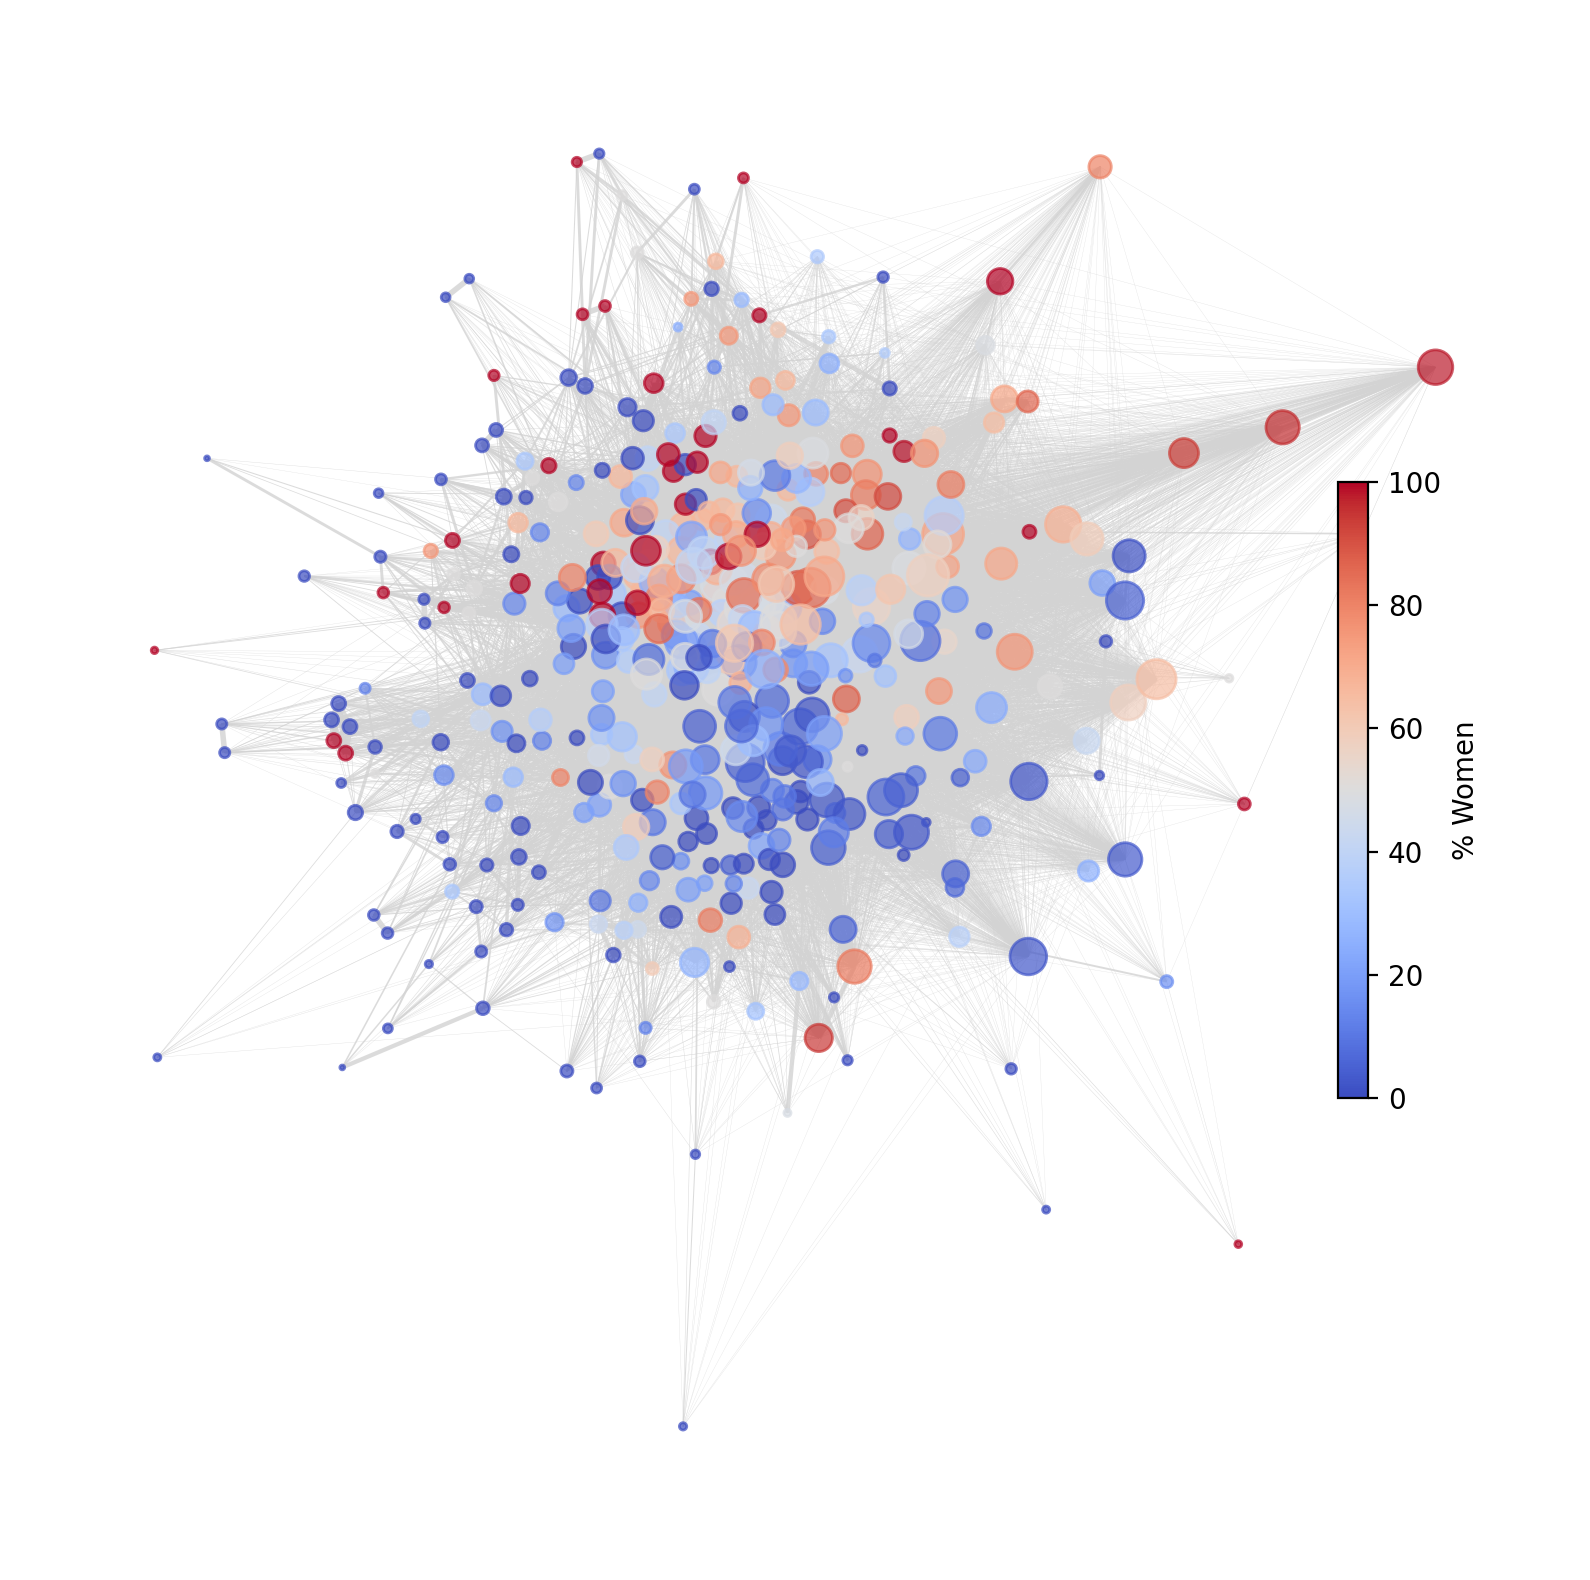
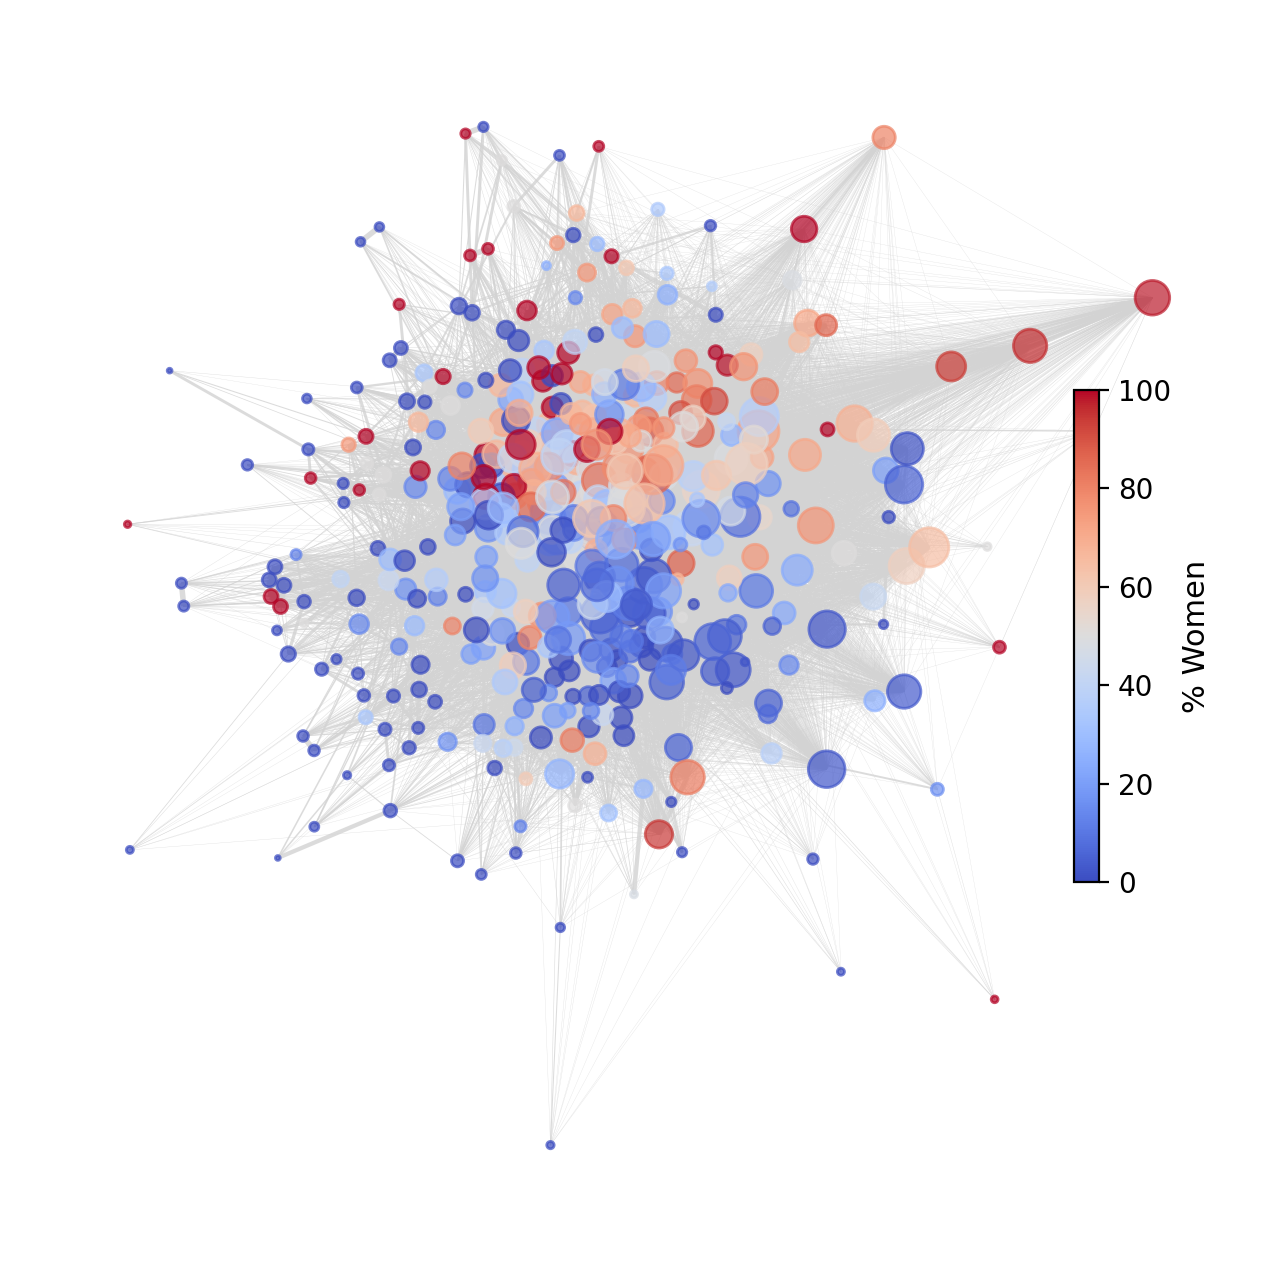
Add new plotting configurations and update image outputs for CAES and CIUO visualizations

diff --git a/src/plotting.py b/src/plotting.py
@@ -230,10 +230,11 @@ def draw_bipartite_by_color(
 		output_path: Path = None, 
 		seed: int = 28, 
 		top_n: int = 6, 
-		shift_x: float = 0.7, 
+		shift_x: float = 0.5, 
 		title: str = "",
 		save: bool = True,
-		figsize: tuple = (12, 8)) -> Dict[str, tuple]:
+		figsize: tuple = (12, 8),
+		font_size: int = 9) -> Dict[str, tuple]:
 	"""Draw the bipartite network with custom layout and return the positions."""
 	np.random.seed(seed)
 
@@ -301,7 +302,7 @@ def draw_bipartite_by_color(
 			graph,
 			pos,
 			labels=label_map,
-			font_size=8,
+			font_size=max(font_size - 1, 6),
 			font_color="black",
 			font_weight="bold",
 			horizontalalignment="left",
@@ -331,10 +332,10 @@ def draw_bipartite_by_color(
 	if caes_groups:
 		leg_l = plt.legend(
 			handles=_make_handles(caes_groups),
-			title="Economic Branches\n(CAES)",
+			title="Economic Branches (CAES)",
 			loc="upper left",
 			bbox_to_anchor=(0.0, 1.0),
-			fontsize=8.5, title_fontsize=8.5,
+			fontsize=max(font_size - 1, 6), title_fontsize=font_size,
 			framealpha=0.85, edgecolor="lightgray",
 			handlelength=1.2, handleheight=1.0,
 			labelspacing=1.2,
@@ -343,17 +344,17 @@ def draw_bipartite_by_color(
 	if ciuo_groups:
 		plt.legend(
 			handles=_make_handles(ciuo_groups),
-			title="Occupations\n(CIUO)",
+			title="Occupations (CIUO)",
 			loc="upper right",
 			bbox_to_anchor=(1.0, 1.0),
-			fontsize=8.5, title_fontsize=8.5,
+			fontsize=max(font_size - 1, 6), title_fontsize=font_size,
 			framealpha=0.85, edgecolor="lightgray",
 			handlelength=1.2, handleheight=1.0,
 			labelspacing=1.2,
 		)
 
 	# Finalize plot
-	plt.title(title)
+	plt.title(title, fontsize=font_size + 1)
 	plt.axis("off")
 	plt.xlim(-1.4, 1.6)
 	if save:
@@ -556,6 +557,8 @@ def plot_projection_by_group(
 	title: str, 
 	legend_title: str, 
 	output_path: Path = None,
+	figsize: tuple = (10, 10),
+	font_size: int = 11,
 	seed: int = 42,
 	save: bool = True,
 	legend_label_fmt=None,
@@ -628,7 +631,7 @@ def plot_projection_by_group(
 		edge_widths = 0.3
 
 	# Plotting
-	plt.figure(figsize=(10, 10))
+	plt.figure(figsize=figsize)
 	nx.draw_networkx_nodes(graph, pos, node_color=node_colors, node_size=node_sizes, alpha=node_alpha)
 	nx.draw_networkx_edges(graph, pos, edge_color="lightgray", width=edge_widths, alpha=edge_alpha)
 
@@ -637,8 +640,8 @@ def plot_projection_by_group(
 	for group, color in group_color_map.items():
 		plt.scatter([], [], color=color, label=label_fn(group))
 
-	plt.legend(title=legend_title, fontsize=9, loc='best', borderaxespad=8.0)
-	plt.title(title)
+	plt.legend(title=legend_title, fontsize=max(font_size - 2, 6), title_fontsize=font_size, loc='best', borderaxespad=8.0)
+	plt.title(title, fontsize=font_size + 1)
 	plt.axis("off")
 	if save:
 		plt.savefig(output_path, bbox_inches="tight")
@@ -655,6 +658,8 @@ def plot_projection_gradient(
 	title: str,
 	colorbar_label: str = "Value",
 	cmap: str = "viridis",
+	figsize: tuple = (10, 10),
+	font_size: int = 11,
 	output_path: Path = None,
 	save: bool = True,
 	factor_node_size: float = 0.5,
@@ -719,16 +724,17 @@ def plot_projection_gradient(
 	else:
 		edge_widths = 0.3
 
-	fig, ax = plt.subplots(figsize=(10, 10))
+	fig, ax = plt.subplots(figsize=figsize)
 	nx.draw_networkx_nodes(subgraph, subpos, ax=ax, node_color=node_colors, node_size=node_sizes, alpha=node_alpha)
 	nx.draw_networkx_edges(subgraph, subpos, ax=ax, edge_color="lightgray", width=edge_widths, alpha=edge_alpha)
 
 	sm = plt.cm.ScalarMappable(cmap=colormap, norm=norm)
 	sm.set_array([])
 	cbar = fig.colorbar(sm, ax=ax, shrink=0.4, pad=-0.15)
-	cbar.set_label(colorbar_label)
+	cbar.set_label(colorbar_label, fontsize=font_size)
+	cbar.ax.tick_params(labelsize=max(font_size - 1, 6))
 
-	ax.set_title(title)
+	ax.set_title(title, fontsize=font_size + 1)
 	ax.axis("off")
 	if save:
 		plt.savefig(output_path, bbox_inches="tight")
@@ -744,6 +750,8 @@ def plot_stacked_by_group(
 	title: str, 
 	output_path: Path, 
 	group_color_map: Dict[str, tuple] = None, 
+	figsize: tuple = (16, 4),
+	font_size: int = 11,
 	save: bool = True,
 	percentage: bool = True) -> None:
 	"""Plot stacked bar chart showing distribution of groups within communities."""
@@ -761,14 +769,25 @@ def plot_stacked_by_group(
 	# Build color list matching the column order
 	if group_color_map:
 		colors = [group_color_map.get(col, 'gray') for col in ct.columns]
-		ax = ct.plot(kind='barh', stacked=True, figsize=(16, 4), width=0.8, color=colors)
+		ax = ct.plot(kind='barh', stacked=True, figsize=figsize, width=0.8, color=colors)
 	else:
-		ax = ct.plot(kind='barh', stacked=True, figsize=(16, 4), width=0.8)
+		ax = ct.plot(kind='barh', stacked=True, figsize=figsize, width=0.8)
 
-	ax.set_xlabel('Percentage (%)' if percentage else 'Count')
-	ax.set_title(title)
+	ax.set_xlabel('Percentage (%)' if percentage else 'Count', fontsize=font_size)
+	ax.set_title(title, fontsize=font_size + 1)
+	ax.tick_params(axis='both', labelsize=font_size - 1)
 	ax.set_xlim(0, 100 if percentage else None)
-	ax.legend(title=group_col, bbox_to_anchor=(1.05, 1), loc='upper left')
+	ax.legend(title=group_col, bbox_to_anchor=(1.05, 1), loc='upper left', fontsize=font_size - 2, title_fontsize=font_size)
+	
+	# Format y-axis labels as C0, C1, ...
+	yticks = ax.get_yticks()
+	ax.set_yticklabels([f"C{int(y)}" for y in yticks])
+
+	# Remove axis borders
+	ax.spines['top'].set_visible(False)
+	ax.spines['right'].set_visible(False)
+	ax.spines['left'].set_visible(False)
+	ax.spines['bottom'].set_visible(False)
 
 	plt.tight_layout()
 	if save:
@@ -973,6 +992,8 @@ def plot_top_n_bar(
 		title: str,
 		xlabel: str,
 		top_n: int = 15,
+		figsize: tuple = (12, 8),
+		font_size: int = 11,
 		output_path: Path = None,
 		save: bool = True,
 	) -> None:
@@ -988,7 +1009,7 @@ def plot_top_n_bar(
 		else:
 			palette_by_label[label] = "gray"
 
-	plt.figure(figsize=(12, 8))
+	plt.figure(figsize=figsize)
 	ax = sns.barplot(
 		data=top_df,
 		x=val_col,
@@ -998,9 +1019,10 @@ def plot_top_n_bar(
 		palette=palette_by_label,
 		legend=False,
 	)
-	plt.title(title)
-	plt.xlabel(xlabel)
-	plt.ylabel("")
+	plt.title(title, fontsize=font_size + 1)
+	plt.xlabel(xlabel, fontsize=font_size)
+	plt.ylabel("", fontsize=font_size)
+	ax.tick_params(axis="both", labelsize=font_size - 1)
 	
 	ax.xaxis.set_major_formatter(plt.FuncFormatter(lambda x, loc: "{:,}".format(int(x))))
 
@@ -1092,7 +1114,17 @@ def plot_alpha_sensitivity(
 
 
 from scipy import stats
-def compute_and_plot_edge_correlation(G: nx.Graph, feature_map: dict, color_map: dict, title: str, output_path: Path, save: bool = True, perfect_line: bool = True) -> None:
+def compute_and_plot_edge_correlation(
+	G: nx.Graph,
+	feature_map: dict,
+	color_map: dict,
+	title: str,
+	output_path: Path,
+	save: bool = True,
+	perfect_line: bool = True,
+	figsize: tuple = (9, 8),
+	font_size: int = 11,
+) -> None:
 	# Only keep nodes that have the feature
 	valid_nodes = set(feature_map.keys())
 	
@@ -1129,7 +1161,7 @@ def compute_and_plot_edge_correlation(G: nx.Graph, feature_map: dict, color_map:
 		return
 
 	# Plot
-	plt.figure(figsize=(9, 8))
+	plt.figure(figsize=figsize)
 	
 	# Scatter plot of node feature vs average neighbor feature, colored by community
 	sns.scatterplot(x=x_vals, y=y_vals, alpha=0.8, c=[color_map.get(u, "gray") for u in plotted_nodes])
@@ -1156,13 +1188,15 @@ def compute_and_plot_edge_correlation(G: nx.Graph, feature_map: dict, color_map:
 	else:
 		print("Zero correlation: Gender is randomly distributed across the network structure.")
 
-	plt.title(f"{title}\nAssortativity (Pearson r): {pearson_r:.4f} (p={p_value:.4e})" if title else None)
-	plt.xlabel(f"% Women per node (Node i)")
-	plt.ylabel(f"% Women per weighted average of neighbors (Node i)")
+	plt.title(f"{title}\nAssortativity (Pearson r): {pearson_r:.4f} (p={p_value:.4e})" if title else None, fontsize=font_size + 1)
+	plt.xlabel(f"% Women per node (Node i)", fontsize=font_size)
+	plt.ylabel(f"% Women per weighted average of neighbors (Node i)", fontsize=font_size)
+	plt.xticks(fontsize=font_size - 1)
+	plt.yticks(fontsize=font_size - 1)
 	plt.xlim(-3, 103)
 	plt.ylim(-3, 103)
 	sns.despine()
-	plt.legend()
+	plt.legend(fontsize=font_size - 1)
 
 	# Generate Assortativity Scatter Plot (Node value vs Average Neighbor Value)
 	plt.tight_layout()

diff --git a/scripts/06_ciuo_projection_custom.py b/scripts/06_ciuo_projection_custom.py
@@ -50,6 +50,8 @@ def main(enes_df=None, nodelist_ciuo_df=None):
 		group_color_map=group_color_map,
 		title=None,
 		legend_title="Categories",
+		figsize=PROJECTION_FIGSIZE,
+		font_size=PLOT_FONT_SIZE,
 		output_path=output,
 		save=True,
 		method="energy",
@@ -74,6 +76,8 @@ def main(enes_df=None, nodelist_ciuo_df=None):
 		group_color_map=community_colors,
 		title=None,
 		legend_title="Communities",
+		figsize=PROJECTION_FIGSIZE,
+		font_size=PLOT_FONT_SIZE,
 		output_path=community_output,
 		save=True,
 		legend_label_fmt=lambda g: f"C{g}",
@@ -105,6 +109,8 @@ def main(enes_df=None, nodelist_ciuo_df=None):
 		title=None,
 		output_path=stacked_output,
 		group_color_map=group_color_map,
+		figsize=STACKED_FIGSIZE,
+		font_size=PLOT_FONT_SIZE,
 		save=True,
 		percentage=False
 	)
@@ -124,6 +130,8 @@ def main(enes_df=None, nodelist_ciuo_df=None):
 		title=None,
 		colorbar_label="% Women",
 		cmap="coolwarm",
+		figsize=PROJECTION_FIGSIZE,
+		font_size=PLOT_FONT_SIZE,
 		output_path=female_output,
 		save=True,
 	)
@@ -137,6 +145,8 @@ def main(enes_df=None, nodelist_ciuo_df=None):
 		title=None,
 		colorbar_label="Mean age (years)",
 		cmap="Dark2",
+		figsize=PROJECTION_FIGSIZE,
+		font_size=PLOT_FONT_SIZE,
 		output_path=age_output,
 		save=True,
 	)
@@ -151,6 +161,8 @@ def main(enes_df=None, nodelist_ciuo_df=None):
 			title=None,
 			colorbar_label="% Public Sector",
 			cmap="PRGn",
+			figsize=PROJECTION_FIGSIZE,
+			font_size=PLOT_FONT_SIZE,
 			output_path=pub_sector_output,
 			save=True,
 		)

diff --git a/scripts/00_prepare_data.py b/scripts/00_prepare_data.py
@@ -70,6 +70,8 @@ def main():
 			color_col=CAES_LABEL_COLOR,
 			title=None,
 			xlabel="Total Workers",
+			figsize=TOP_N_BAR_FIGSIZE,
+			font_size=PLOT_FONT_SIZE,
 			output_path=IMAGE_DIR / "00_top_caes_workers.png",
 			top_n=15,
 			save=True,
@@ -83,6 +85,8 @@ def main():
 			color_col=CIUO_LABEL_COLOR,
 			title=None,
 			xlabel="Total Workers",
+			figsize=TOP_N_BAR_FIGSIZE,
+			font_size=PLOT_FONT_SIZE,
 			output_path=IMAGE_DIR / "00_top_ciuo_workers.png",
 			top_n=15,
 			save=True,

diff --git a/config.py b/config.py
@@ -46,6 +46,13 @@ MAX_CAES_ID = 10000  # Threshold to disambiguate CAES and CIUO IDs
 
 IMAGE_DIR = Path(__file__).parent / Path("images")
 
+TOP_N_BAR_FIGSIZE = (8, 6)
+EDGE_CORRELATION_FIGSIZE = (6, 6)
+BIPARTITE_FIGSIZE = (12, 6)
+PROJECTION_FIGSIZE = (8, 8)
+STACKED_FIGSIZE = (12, 3)
+PLOT_FONT_SIZE = 11
+
 LOGSCALE = False
 
 COMMUNITY_COLORS_PALETTE = [f"C{i}" for i in range(10)] + ["black", "gold", "darkred", "navy", "darkcyan"]

diff --git a/scripts/14_ciuo_edge_correlation.py b/scripts/14_ciuo_edge_correlation.py
@@ -45,7 +45,9 @@ def main(enes_df=None, nodelist_ciuo_df=None):
 		title=None, 
 		output_path=IMAGE_DIR / "14_ciuo_edge_correlation.png", 
 		save=True,
-		perfect_line=False
+		perfect_line=False,
+		figsize=EDGE_CORRELATION_FIGSIZE,
+		font_size=PLOT_FONT_SIZE,
 	)
 
 if __name__ == "__main__":

diff --git a/scripts/02_bipartite.py b/scripts/02_bipartite.py
@@ -90,7 +90,8 @@ def main(enes_df=None, nodelist_caes_df=None, nodelist_ciuo_df=None):
 		output_path=colored_output,
 		title=None,
 		save=True,
-		figsize=(10, 8)
+		figsize=BIPARTITE_FIGSIZE,
+		font_size=PLOT_FONT_SIZE,
 	)
 	print(f"Saved bipartite groups layout to {colored_output}")
 
